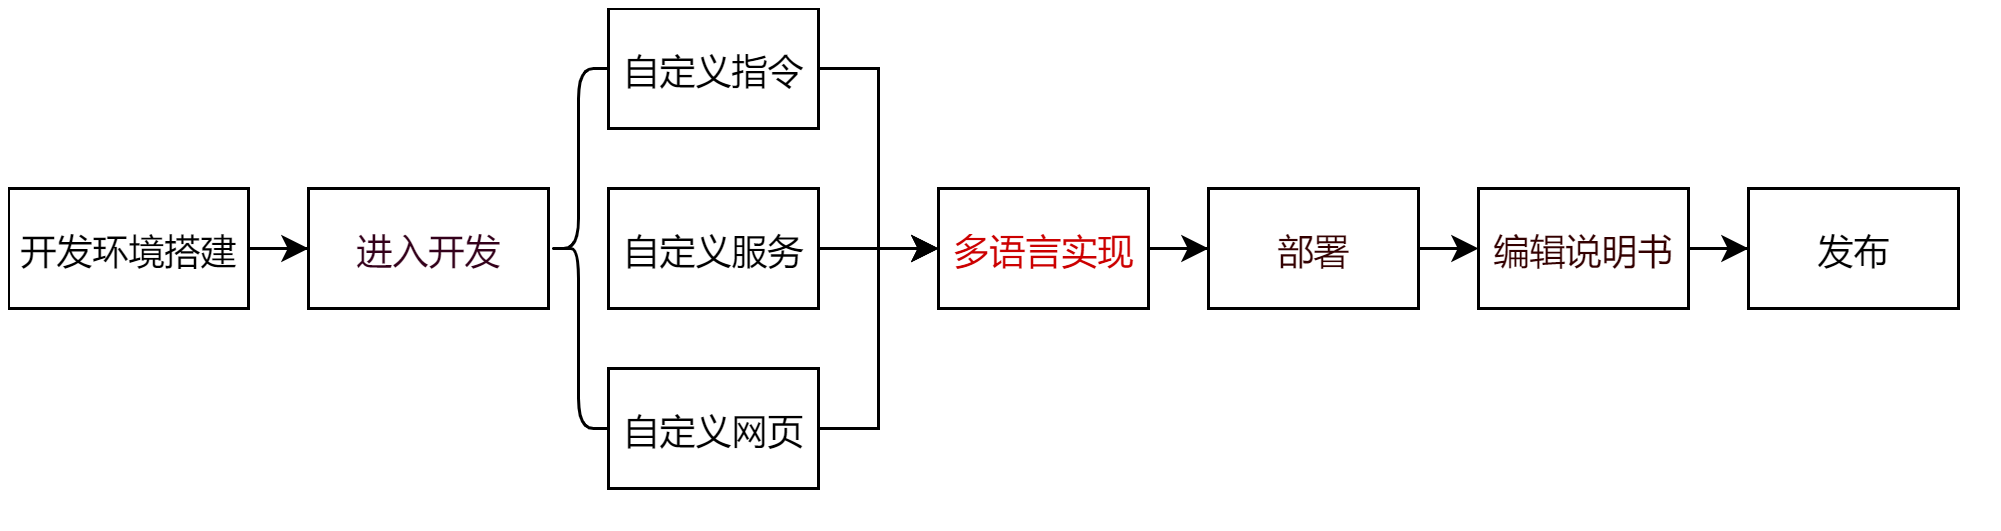
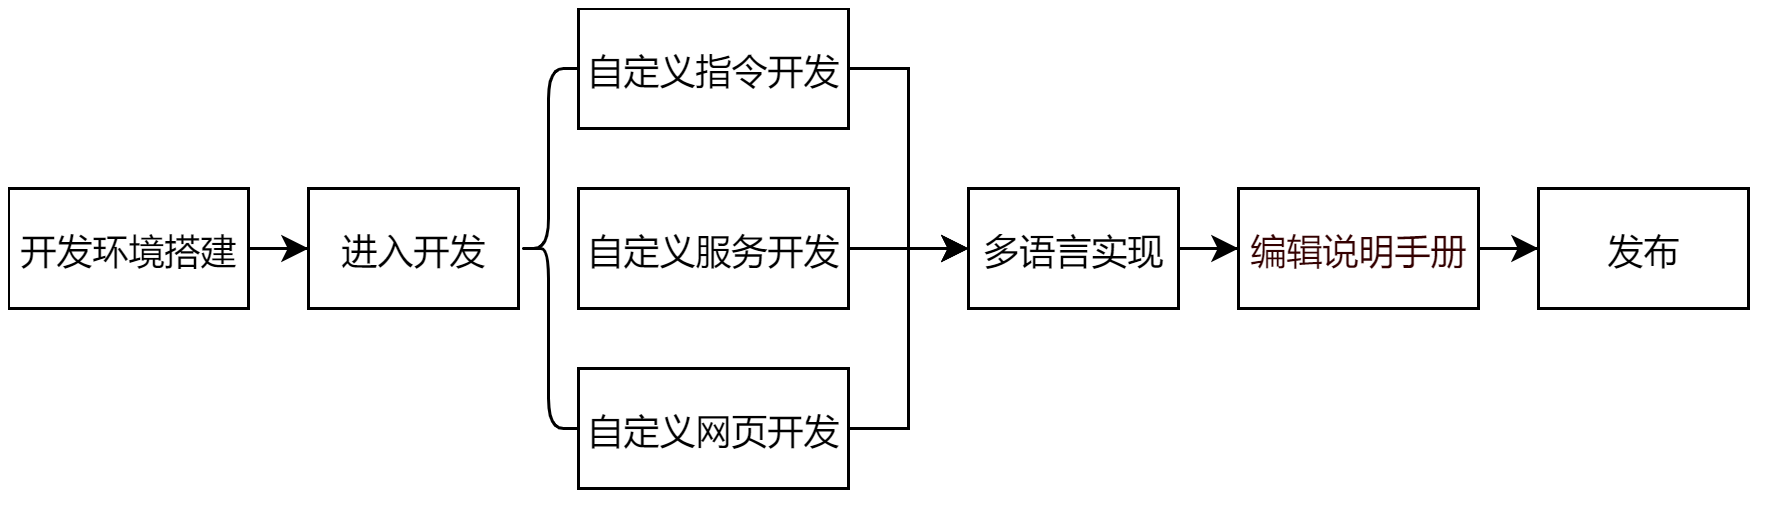
更新

diff --git a/docs/.vuepress/config.js b/docs/.vuepress/config.js
@@ -66,9 +66,13 @@ module.exports = {
                         '/guide/addOn/JAKA_Command',
                         '/guide/addOn/JAKA_Serve',
                         '/guide/addOn/JAKA_web',
+                        '/guide/addOn/references',
                         '/guide/addOn/demo_LiftKit',
                         '/guide/addOn/demo_DHGripper',
-                        '/guide/addOn/references',
+                        '/guide/addOn/multi-language',
+                        '/guide/addOn/user guide',
+                        '/guide/addOn/release',
+                        
                     ], 
                         // 新增的下级页面链接
                     }

diff --git a/docs/guide/addOn/demo_LiftKit.md b/docs/guide/addOn/demo_LiftKit.md
@@ -1,5 +1,5 @@
 ---
-title: Ewellix 升降轴
+title: 实际案例参考——Ewellix 升降轴
 sidebarDepth: 1
 ---
 

diff --git a/docs/guide/addOn/demo_DHGripper.md b/docs/guide/addOn/demo_DHGripper.md
@@ -1,4 +1,4 @@
 ---
-title: 大寰夹爪
+title: 实际案例参考——大寰夹爪
 sidebarDepth: 1
 ---

diff --git a/docs/guide/addOn/references.md b/docs/guide/addOn/references.md
@@ -1,5 +1,5 @@
 ---
-title: 参考文档
+title: 开发参考文档
 sidebarDepth: 1
 ---
 

diff --git a/docs/guide/addOn/user guide.md b/docs/guide/addOn/user guide.md
@@ -1,0 +1,4 @@
+---
+title: 说明手册编写
+sidebarDepth: 1
+---

diff --git a/docs/guide/addOn/multi-language.md b/docs/guide/addOn/multi-language.md
@@ -1,0 +1,4 @@
+---
+title: 多语言实现
+sidebarDepth: 1
+---

diff --git a/docs/guide/addOn/release.md b/docs/guide/addOn/release.md
@@ -1,0 +1,4 @@
+---
+title: 发布
+sidebarDepth: 1
+---
